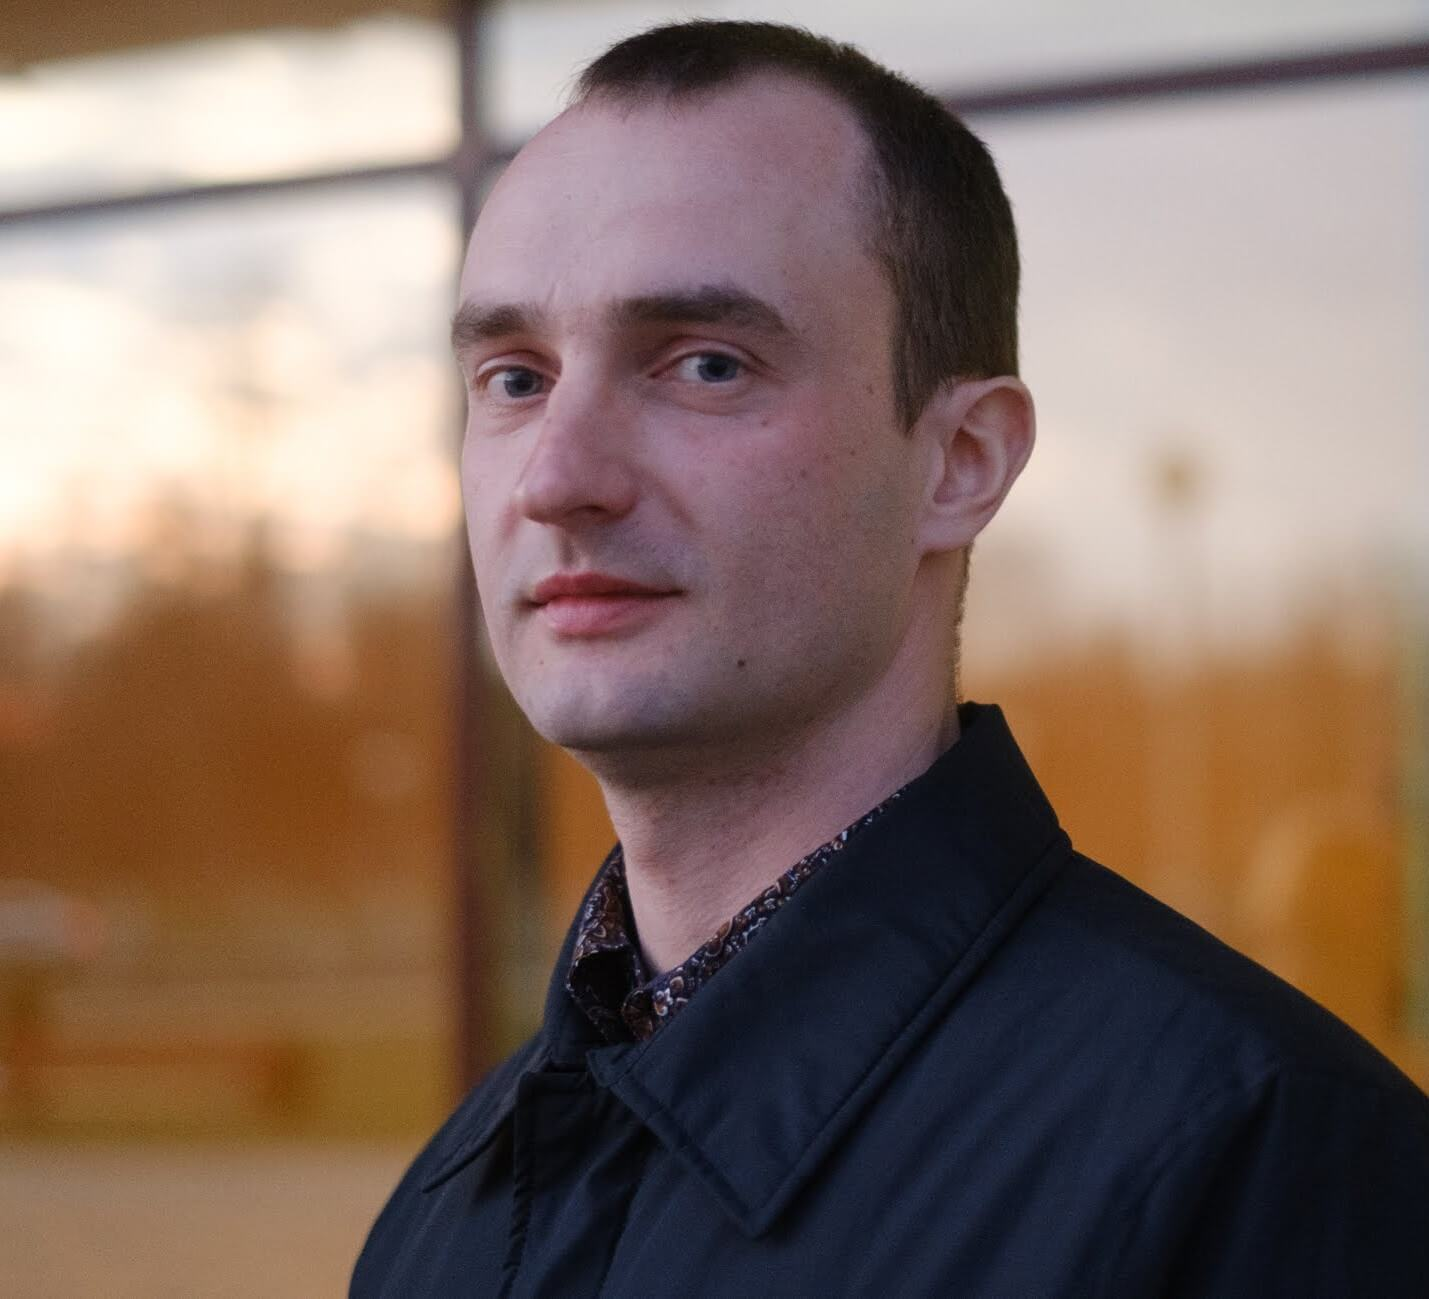
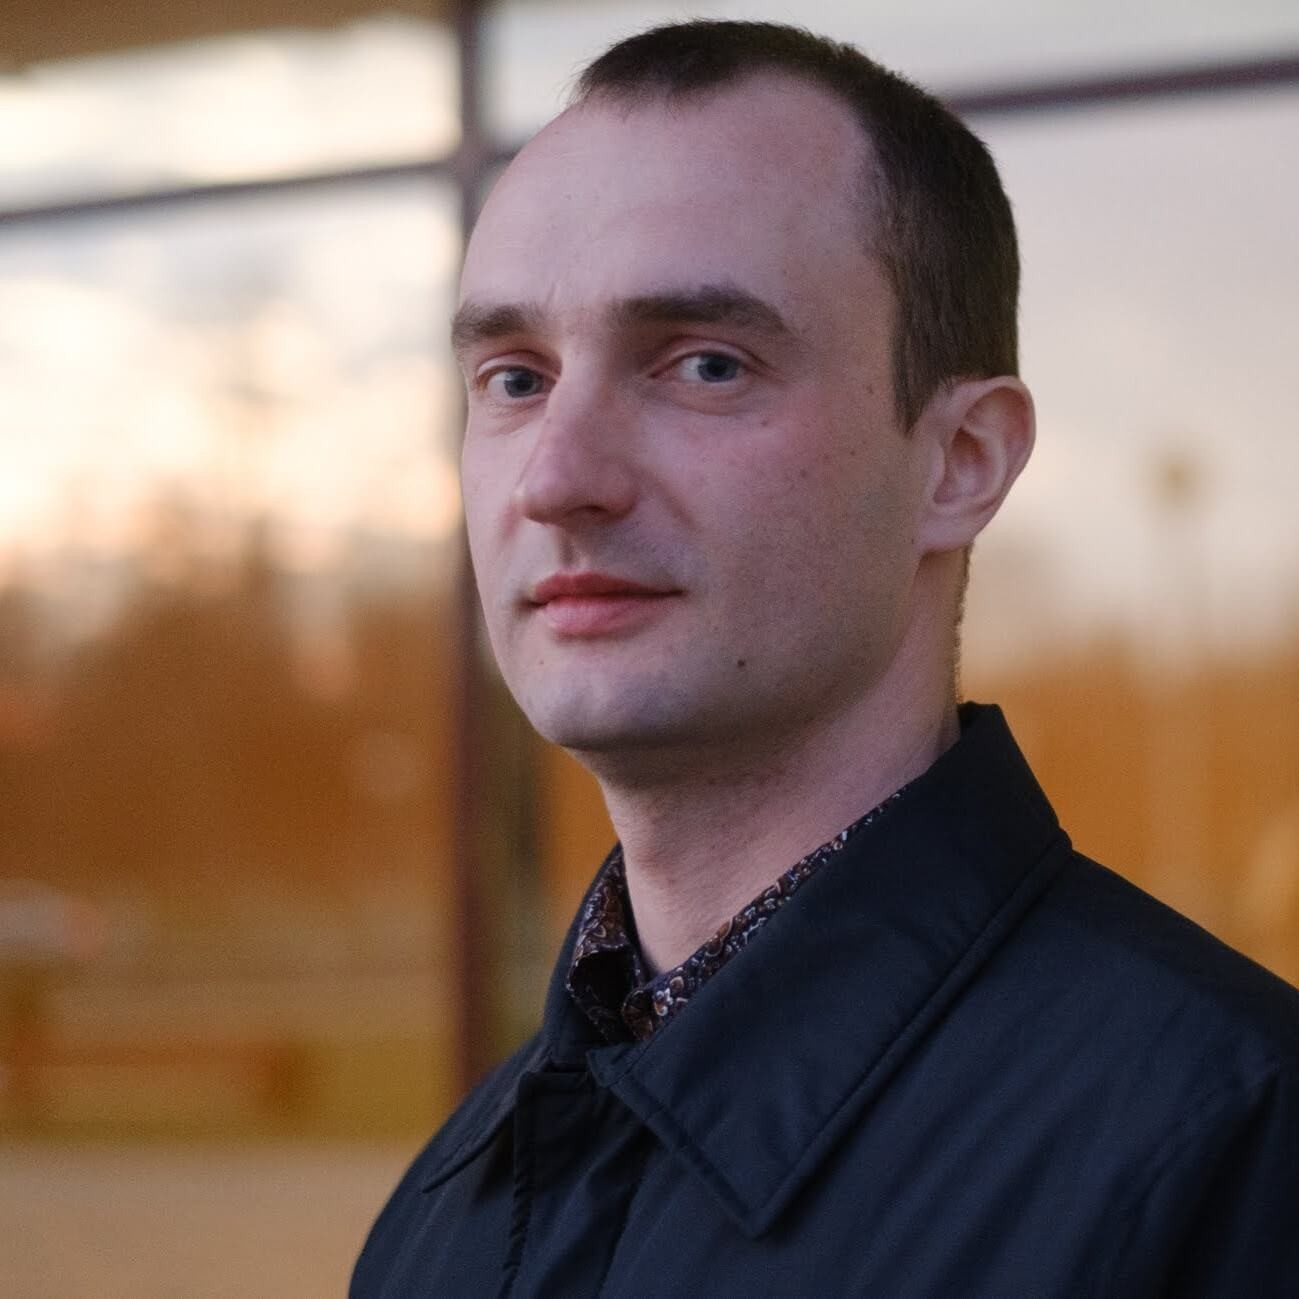
feat: add skills section

diff --git a/index.html b/index.html
@@ -21,36 +21,36 @@
         <ul class="menu__list list">
           <li class="menu__item">
             <a class="menu__link" href="#about">
-              <img class="menu__icon" src="/assets/icons/home.svg" alt="home logo">
+              <img class="menu__icon" src="/assets/icons/menu/home.svg" alt="home logo">
             </a>
           </li>
           <li class="menu__item">
             <a class="menu__link menu-link" href="#education">
-              <img class="menu__icon" src="/assets/icons/education.svg" alt="education logo">
+              <img class="menu__icon" src="/assets/icons/menu/education.svg" alt="education logo">
             </a>
             <span class="menu-link__descr">EDUCATION</span>
           </li>
           <li class="menu__item">
             <a class="menu__link" href="#skills">
-              <img class="menu__icon" src="/assets/icons/skills.svg" alt="skills logo">
+              <img class="menu__icon" src="/assets/icons/menu/skills.svg" alt="skills logo">
             </a>
             <span class="menu-link__descr">SKILLS</span>
           </li>
           <li class="menu__item">
             <a class="menu__link" href="#code">
-              <img class="menu__icon" src="/assets/icons/code.svg" alt="code logo">
+              <img class="menu__icon" src="/assets/icons/menu/code.svg" alt="code logo">
             </a>
             <span class="menu-link__descr">CODE EXAMPLE</span>
           </li>
           <li class="menu__item">
             <a class="menu__link" href="#portfolio">
-              <img class="menu__icon" src="/assets/icons/portfolio.svg" alt="portfolio logo">
+              <img class="menu__icon" src="/assets/icons/menu/portfolio.svg" alt="portfolio logo">
             </a>
             <span class="menu-link__descr">PORTFOLIO</span>
           </li>
           <li class="menu__item">
             <a class="menu__link" href="#contacts">
-              <img class="menu__icon" src="/assets/icons/contacts.svg" alt="contacts logo">
+              <img class="menu__icon" src="/assets/icons/menu/contacts.svg" alt="contacts logo">
             </a>
             <span class="menu-link__descr">CONTACTS</span>
           </li>
@@ -61,7 +61,7 @@
           <section class="about" id="about">
             <div class="about__text">
               <p class="about__hi">Hi!</p>
-              <p class="about__greetings">I'm Vadzim Bakunovich</p>
+              <p class="about__greetings">I'm <span class="text--shadow">Vadzim Bakunovich</span></p>
               <p class="about__profession">JUNIOR <span class="text--orange">FRONT-END</span> DEVELOPER</p>
               <p class="about__profile">I will be glad to join a team of creative and energetic people 
                 who are ready to share their experience and help develop. I will gladly do my best to 
@@ -74,36 +74,86 @@
             <div class="border"></div>
             <h3 class="subheading">Higher education:</h3>
             <div class="education__higher">
-              <img class="education__blazon" src="/assets/icons/psu-logo.png" alt="blazon of Polotsk State University">
-              <p class="education__university"> - BSc(Hons) of Radio Engineering, Polotsk State University</p>
+              <img class="education__blazon" src="/assets/icons/courses/psu-logo.png" alt="blazon of Polotsk State University">
+              <p class="education__university"> BSc(Hons) of Radio Engineering, Polotsk State University</p>
             </div>
             <h3 class="subheading">Courses (HTML, CSS, JS, React, Git):</h3>
             <ul class="education__courses list">
               <li class="education__course">
                 <a class="course__link" href="https://htmlacademy.ru/profile/id1671485" target="_blank">
-                  <img class="course__logo" src="/assets/icons/htmlacademy.jpg" alt="html academy logo">
+                  <img class="course__logo" src="/assets/icons/courses/htmlacademy.jpg" alt="html academy logo">
                 </a>
                 <p class="course__descr">htmlacademy.ru</p>
               </li>
               <li class="education__course">
                 <a href="https://www.codecademy.com/profiles/VadimBakunovich" target="_blank">
-                  <img class="course__logo" src="/assets/icons/codecademy.png" alt="codecademy logo">
+                  <img class="course__logo" src="/assets/icons/courses/codecademy.png" alt="codecademy logo">
                 </a>
                 <p class="course__descr">codecademy.com</p>
               </li>
               <li class="education__course">
                 <a href="https://www.freecodecamp.org/vadim_bakunovich" target="_blank">
-                  <img class="course__logo" src="/assets/icons/freecodecamp.png" alt="freecodecamp logo">
+                  <img class="course__logo" src="/assets/icons/courses/freecodecamp.png" alt="freecodecamp logo">
                 </a>
                 <p class="course__descr">freecodecamp.org</p>
               </li>
               <li class="education__course">
-                <img class="course__logo" src="/assets/icons/senla.jpg" alt="freecodecamp logo">
+                <img class="course__logo" src="/assets/icons/courses/senla.jpg" alt="senla logo">
                 <p class="course__descr">HTML, CSS, JS and React at SENLA (7 months)</p>
               </li>
               <li class="education__course">
-                <img class="course__logo" src="/assets/icons/rsschool.jpg" alt="freecodecamp logo">
+                <img class="course__logo" src="/assets/icons/courses/rsschool.jpg" alt="rs school logo">
                 <p class="course__descr">Front-end Pre-School at RS School (2 months)</p>
+              </li>
+            </ul>
+          </section>
+          <section class="skills" id="skills">
+            <h2 class="heading text--orange">SKILLS</h2>
+            <div class="border"></div>
+            <h3 class="subheading">My strengths:</h3>
+              <ul class="skills__soft skills-list list">
+                <li class="skills__item">
+                  <img class="skills__icon" src="/assets/icons/skills/work-ethic.png" alt="work ethic skill logo">
+                  <p>work ethic</p>
+                </li>
+                <li class="skills__item">
+                  <img class="skills__icon" src="/assets/icons/skills/communication.svg" alt="communication skill logo">
+                  <p>communication</p>
+                </li>
+                <li class="skills__item">
+                  <img class="skills__icon" src="/assets/icons/skills/teamwork.svg" alt="team work skill logo">
+                  <p>team work</p>
+                </li>
+                <li class="skills__item">
+                  <img class="skills__icon" src="/assets/icons/skills/adaptability.svg" alt="adaptability skill logo">
+                  <p>adaptability</p>
+                </li>
+                <li class="skills__item">
+                  <img class="skills__icon" src="/assets/icons/skills/self-growth.svg" alt="self-development skill logo">
+                  <p>self-development</p>
+                </li>
+              </ul>
+            <h3 class="subheading">Using now:</h3>
+            <ul class="skills__hard skills-list list">
+              <li class="skills__item">
+                <img class="skills__icon" src="/assets/icons/skills/html5.svg" alt="html5 logo">
+                <p>HTML5</p>
+              </li>
+              <li class="skills__item">
+                <img class="skills__icon" src="/assets/icons/skills/css3.svg" alt="css3 logo">
+                <p>CSS3</p>
+              </li>
+              <li class="skills__item">
+                <img class="skills__icon" src="/assets/icons/skills/js.svg" alt="javascript logo">
+                <p>JavaScript</p>
+              </li>
+              <li class="skills__item">
+                <img class="skills__icon" src="/assets/icons/skills/react.svg" alt="react logo">
+                <p>REACT</p>
+              </li>
+              <li class="skills__item">
+                <img class="skills__icon" src="/assets/icons/skills/git.svg" alt="git logo">
+                <p>GIT</p>
               </li>
             </ul>
           </section>

diff --git a/css/style.css b/css/style.css
@@ -12,6 +12,7 @@ html {
 }
 :root {
   --light-grey: #f0f0f6;
+  --grey: #ebe9e5;
   --dark-grey: #3e3e3e;
   --orange: #ffb400;
   --orange: #ffa500;
@@ -24,9 +25,7 @@ html {
   color: var(--dark-grey);
   background-color: var(--light-grey);
 }
-.bg-wrapper {
-  position: relative;
-}
+.bg-wrapper { position: relative; }
 .bg {
   position: fixed;
   top: 0;
@@ -41,32 +40,29 @@ html {
   position: relative;
   display: flex;
   flex-direction: row;
-  max-width: 1500px;
+  max-width: 1520px;
   margin: 0 auto;
-  /* border: 1px solid black; */
 }
 .list { list-style-type: none; }
-.text--orange {
-  color: var(--orange);
-}
-.border {
-  border-top: 3px solid var(--light-grey);
-  margin-bottom: 30px;
+a { font-size: 0; }
+.text--orange { color: var(--orange); }
+.text--shadow { text-shadow: 1px 1px 2px var(--dark-grey); }
+section {
+  width: fit-content;
+  padding: 30px 0;
 }
 .heading {
   width: fit-content;
-  margin-bottom: 15px;
+  margin-bottom: 50px;
   font-weight: 500;
   font-size: 30px;
-  border-radius: 2px;
-  background-color: #fff;
 }
 .subheading {
   width: fit-content;
-  margin-bottom: 30px;
+  margin-bottom: 40px;
   font-weight: 500;
   font-size: 24px;
-  background-color: #fff;
+  border-radius: 6px;
 }
                                           /*Hide heading*/
 .visually-hidden {
@@ -77,10 +73,7 @@ html {
   margin: -1px;
 }
                                           /*Menu*/
-.menu {
-  position: fixed;
-  margin-left: -120px;
-}
+.menu { position: fixed; }
 .menu__list {
   display: flex;
   flex-direction: column;
@@ -95,8 +88,8 @@ html {
   display: flex;
   justify-content: center;
   align-items: center;
-  width: 80px;
-  height: 80px;
+  width: 60px;
+  height: 60px;
   background: linear-gradient(145deg, #fff, #d8d8d8);
   box-shadow:  6px 6px 12px #ccc,
     -6px -6px 12px #fff;
@@ -111,73 +104,55 @@ html {
   transform: scale(1, 1);
 }
 .menu__icon {
-  width: 40px;
-  height: 40px;
+  width: 30px;
+  height: 30px;
 }
 .menu-link__descr {
   margin-right: 30px;
-  font-size: 24px;
+  font-size: 22px;
   color: var(--dark-grey);
   opacity: 0;
   transition: opacity 250ms;
 }
-.menu__link:hover + .menu-link__descr {
-  opacity: 1;
-}
-.menu__link:active + .menu-link__descr {
-  color: var(--orange);
-}
+.menu__link:hover + .menu-link__descr { opacity: 1; }
+.menu__link:active + .menu-link__descr { color: var(--orange); }
                                           /*Main*/
-main {
-  padding: 0 0 0 250px;
-}
+main { padding: 0 0 0 320px; }
                                           /*About section*/
-.about {
-  display: flex;
-  margin-bottom: 70px;
-}
-.about__text {
-  padding: 70px 70px 0 0;
-}
+.about { display: flex; }
+.about__text { padding: 70px 70px 0 0; }
 .about__hi {
   width: fit-content;
   margin-bottom: 50px;
   font-family: 'WindSong', cursive;
   font-size: 120px;
   color: var(--orange);
-  background-color: #fff;
 }
 .about__greetings {
   width: fit-content;
   margin-bottom: 20px;
   font-weight: 500;
   font-size: 60px;
-  text-shadow: 1px 1px 2px var(--dark-grey);
-  background-color: #fff;
 }
 .about__profession {
   width: fit-content;
   margin-bottom: 40px;
   font-weight: 500;
   font-size: 32px;
-  background-color: #fff;
 }
 .about__profile {
   width: fit-content;
   line-height: 24px;
-  background-color: #fff;
 }
 .about__photo {
-  width: 550px;
+  width: 500px;
   height: 500px;
-  border-bottom-left-radius: 30px;
-  border-top-right-radius: 30px;
+  border-top-left-radius: 50px;
+  border-bottom-right-radius: 50px;
   box-shadow: 4px 4px 8px 0px rgba(0, 0, 0, 0.8);
 }
                                           /*Education section*/
-.education {
-  margin-bottom: 30px;
-}
+.education { border-top: 3px solid var(--grey); }
 .education__higher {
   margin-bottom: 30px;
   display: flex;
@@ -185,27 +160,41 @@ main {
 }
 .education__blazon {
   width: 100px;
-  margin-right: 5px;
+  margin-right: 10px;
 }
-.education__university {
-  background-color: #fff;
-}
-.education__courses {
-  margin-left: 32px;
-}
+.education__courses { padding-left: 25px; }
 .education__course {
-  margin: 0 15px 10px 0;
+  margin: 0 15px 20px 0;
   display: flex;
   align-items: center;
 }
 .course__logo {
-  width: 40px;
-  height: 40px;
+  height: 50px;
   margin-right: 15px;
   border-radius: 6px;
 }
 .course__descr {
   width: fit-content;
-  background-color: #fff;
   border-radius: 6px;
 }
+                                          /*Skills section*/
+.skills { border-top: 3px solid var(--grey); }
+.skills-list {
+  width: 800px;
+  display: flex;
+  justify-content: space-between;
+  margin-bottom: 40px;
+  padding: 5px 0 0 7px;
+}
+.skills__item {
+  height: 110px;
+  display: flex;
+  flex-direction: column;
+  justify-content: space-between;
+  align-items: center;
+}
+.skills__icon {
+  width: 70px;
+  height: 70px;
+}
+.skills__hard { width: 770px; }
